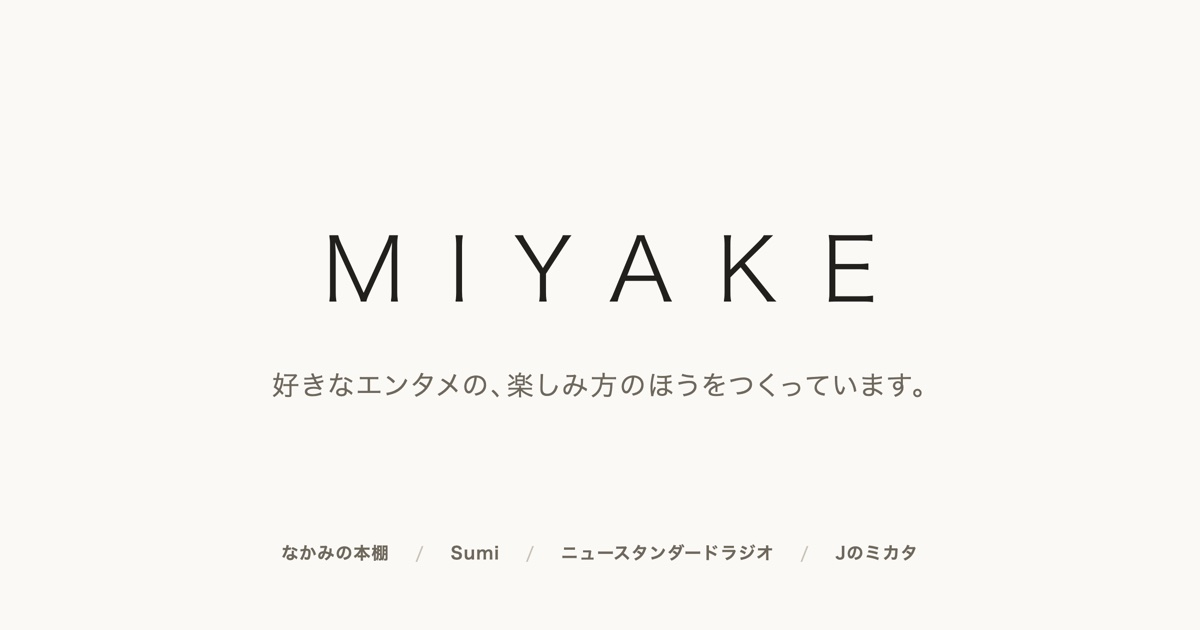
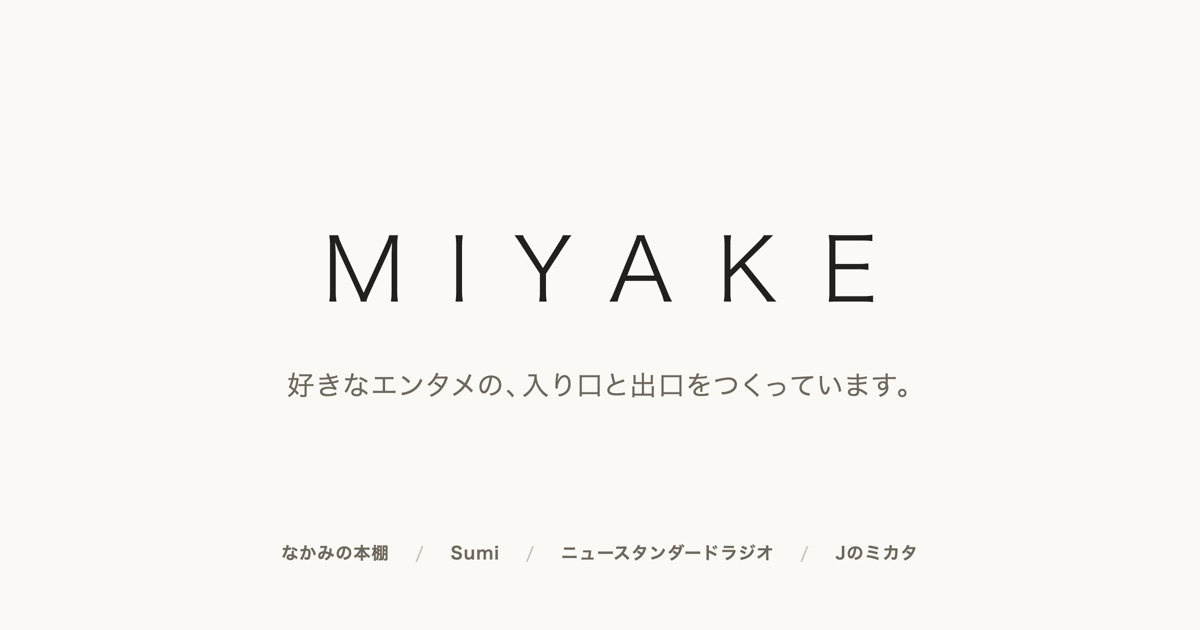
コピー確定: 「好きなエンタメの、入り口と出口をつくっています。」
本人の言葉。フッターは「つくる途中の話は、Xに書いています。」で
Xフォローへの橋に。OGP・Xヘッダーも同文に更新。

Changed region(s): [[0.2158, 0.573, 0.7708, 0.6333]]

diff --git a/index.html b/index.html
@@ -171,7 +171,7 @@
 
   <header class="hero">
     <h1 translate="no">MIYAKE</h1>
-    <p class="lede">好きなエンタメの、<em>楽しみ方のほうを</em>つくっています。</p>
+    <p class="lede">好きなエンタメの、<em>入り口と出口を</em>つくっています。</p>
     <div class="facts">
       <div class="fact"><b>2</b><span>IOS APPS</span></div>
       <div class="fact"><b>75</b><span>EPISODES</span></div>
@@ -215,7 +215,7 @@
   </ul>
 
   <footer>
-    <p class="note" style="margin-bottom:22px">つくるより、続けるほうが難しい。だから設計の種明かしと、うまくいかなかったときの数字のほうをよく書きます。</p>
+    <p class="note" style="margin-bottom:22px">つくる途中の話は、Xに書いています。</p>
     <a class="x-link" href="https://x.com/syake1001">
       <svg viewBox="0 0 24 24" aria-hidden="true"><path d="M18.244 2.25h3.308l-7.227 8.26 8.502 11.24H16.17l-5.214-6.817L4.99 21.75H1.68l7.73-8.835L1.254 2.25H8.08l4.713 6.231zm-1.161 17.52h1.833L7.084 4.126H5.117z"/></svg>
       @syake1001

diff --git a/tools/ogp.html b/tools/ogp.html
@@ -27,7 +27,7 @@
 </head>
 <body>
   <h1>MIYAKE</h1>
-  <p class="lede">好きなエンタメの、楽しみ方のほうをつくっています。</p>
+  <p class="lede">好きなエンタメの、入り口と出口をつくっています。</p>
   <div class="works">
     <b>なかみの本棚</b><span class="sep">/</span>
     <b>Sumi</b><span class="sep">/</span>

diff --git a/tools/header.html b/tools/header.html
@@ -37,7 +37,7 @@
 <body>
   <div class="left">
     <p class="kicker">M I Y A K E</p>
-    <h1>好きなエンタメの、<br>楽しみ方のほうをつくる。</h1>
+    <h1>好きなエンタメの、<br>入り口と出口をつくる。</h1>
     <p class="sub">アプリ・サイト・ラジオ / ぜんぶひとりで</p>
   </div>
   <div class="marks">
